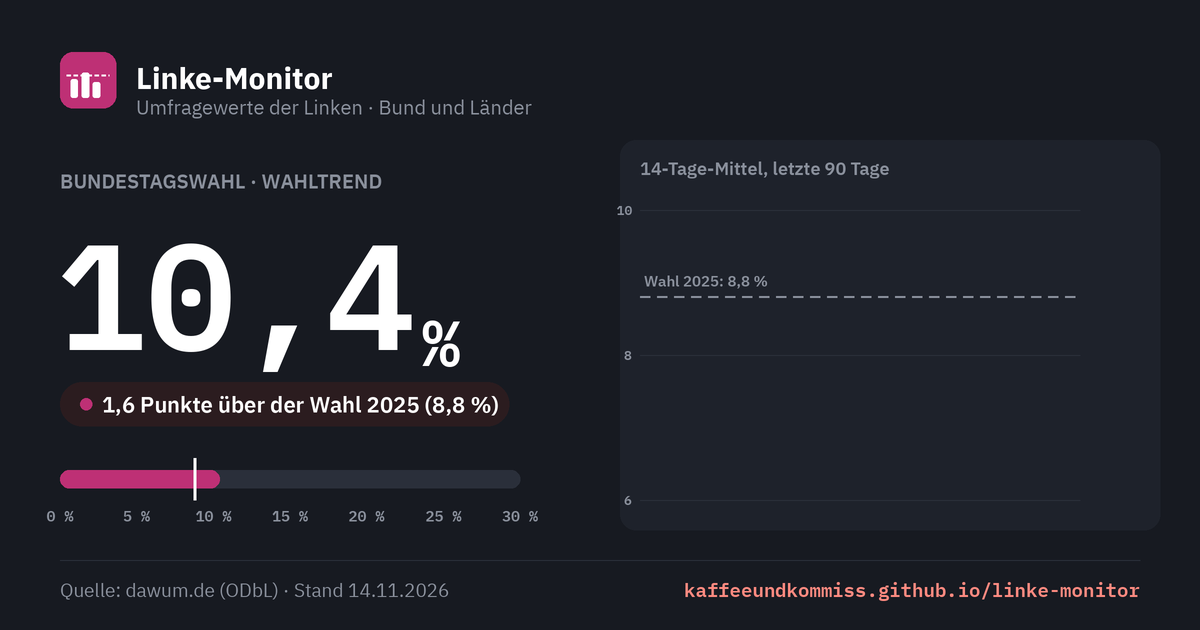
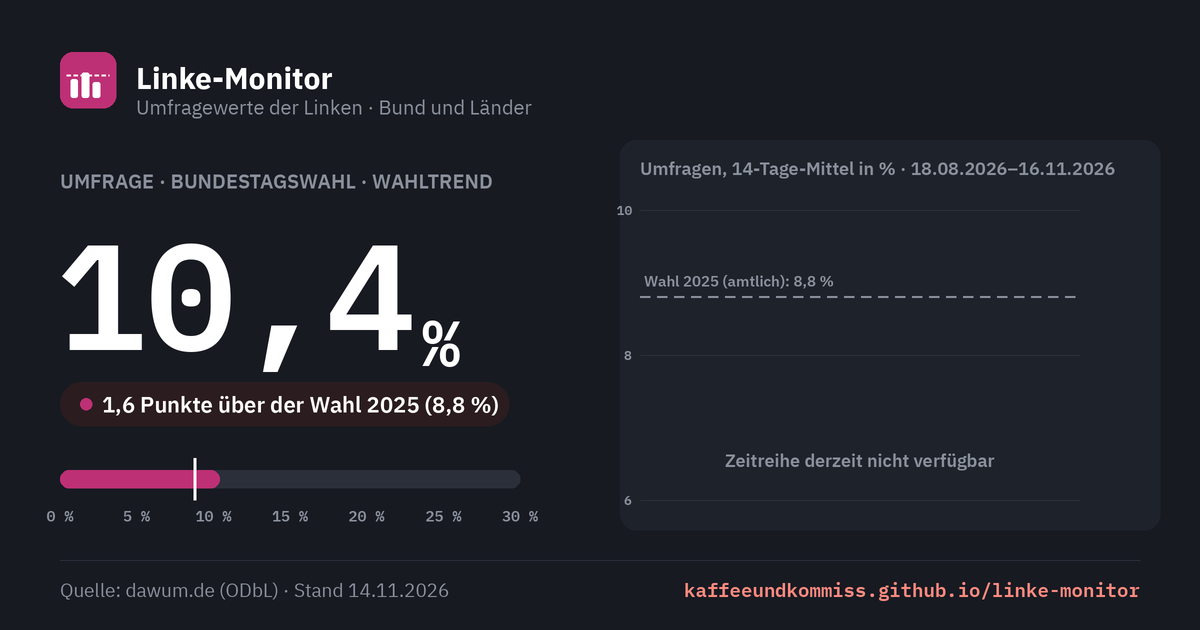
Diagramme eindeutig beschriften: Umfrage, amtliches Ergebnis, Chronik
Kennzeichen je Diagramm, Einheit, Zeitraum und Stand; Vorschaubilder
(og/make-og.py) mit derselben Kennzeichnung, damit das wöchentliche
Update die Beschriftung nicht überschreibt.

Claude-Session: https://claude.ai/code/session_01AuP7hKA5r64Vaqp6wB3yAR

diff --git a/index.html b/index.html
@@ -133,6 +133,9 @@
   .liste .lkopf{display:flex;justify-content:space-between;align-items:baseline;padding-bottom:8px;border-bottom:1px solid var(--line)}
   .liste .lkopf h3{margin:0;font-size:15px;font-weight:600}
   .liste .lkopf .skl{font-size:13px;color:var(--mute)}
+  .liste .llegende{margin:8px 0 0;font-size:13px;color:var(--mute)}
+  .abschnitt-legende{margin:6px 0 0;font-size:13px;color:var(--mute);max-width:46em}
+  .kachel .wart{font-size:12px;font-weight:600;color:var(--mute);margin-top:6px}
   .inst-zeile{display:grid;grid-template-columns:150px 1fr 60px;align-items:center;gap:14px;padding:7px 0;border-bottom:1px solid var(--hair)}
   .inst-zeile .nam{font-weight:500;font-size:14px;white-space:nowrap;overflow:hidden;text-overflow:ellipsis}
   .inst-zeile .dat{font-family:var(--mono);font-size:13px;color:var(--mute)}
@@ -240,7 +243,7 @@
   }
 .einstieg{margin:0 0 -20px;max-width:40em;color:var(--mute);font-size:16px;line-height:1.5}
 </style>
-<link rel="stylesheet" href="bereich.css?v=2">
+<link rel="stylesheet" href="bereich.css?v=3">
 </head>
 <body>
 <div class="kk-leiste"><div class="kk-in">
@@ -280,23 +283,28 @@
   <section id="bund-hero" aria-labelledby="bund-titel" data-teilen="Bundestagswahl"></section>
 
   <section id="bund-verlauf" class="karte verlauf" aria-labelledby="verlauf-titel" data-teilen="Zeitverlauf Bund" hidden>
+    <span class="art umfrage">Umfragen</span>
     <h2 id="verlauf-titel">Die Linke im Zeitverlauf · Bund</h2>
     <p class="sub" id="verlauf-sub">Punkte: Einzelumfragen · Linie: 14-Tage-Mittel</p>
     <div id="verlauf-chart" class="fv-chart"></div>
-    <p class="fv-quelle">Quelle: <a href="https://dawum.de/Bundestag/" rel="noopener">dawum.de</a> · 14-Tage-Mittel ungewichtet</p>
+    <p class="fv-quelle" id="verlauf-quelle">Quelle: <a href="https://dawum.de/Bundestag/" rel="noopener">dawum.de</a> (ODbL) · 14-Tage-Mittel ungewichtet</p>
   </section>
 
   <section id="anstehend" aria-labelledby="anstehend-titel" data-teilen="Anstehende Wahlen">
+    <span class="art umfrage">Umfragen</span>
     <div class="kopfzeile">
       <h2 id="anstehend-titel">Anstehende Wahlen</h2>
       <span class="hint">nächster Termin zuerst</span>
     </div>
+    <p class="abschnitt-legende">Große Zahl: Umfragewert in % (Wahltrend, sonst Ø der neuesten Umfrage je Institut), kein Ergebnis. Balken 0–30 %, gestrichelt: amtliches Ergebnis der letzten Wahl im Land.</p>
     <div class="kacheln" id="anstehend-grid" style="margin-top:16px"></div>
-    <p class="quelle">Quelle: <a href="https://dawum.de" rel="noopener">dawum.de</a> (ODbL) · ohne Wahltrend: Ø der neuesten Umfrage je Institut · Vergleich: amtliches Ergebnis der letzten Wahl im Land</p>
+    <p class="quelle">Quelle: <a href="https://dawum.de" rel="noopener">dawum.de</a> (ODbL) · ohne Wahltrend: Ø der neuesten Umfrage je Institut · Vergleich: amtliches Ergebnis der letzten Wahl im Land<span id="anstehend-stand"></span></p>
   </section>
 
   <section id="gelaufen" aria-labelledby="gelaufen-titel" data-teilen="Gelaufene Wahlen" data-quelle="amtliche Endergebnisse der Landeswahlleitungen" hidden>
+    <span class="art amtlich">Amtliche Ergebnisse</span>
     <div class="kopfzeile"><h2 id="gelaufen-titel">Gelaufene Wahlen</h2></div>
+    <p class="abschnitt-legende">Amtliche Endergebnisse in %, Quelle je Zeile. Zur Vorwahl: Veränderung in Prozentpunkten. Balken 0–30 %, gestrichelt: Ergebnis der Wahl davor.</p>
     <div class="karte tabelle" id="gelaufen-tabelle" style="margin-top:16px"></div>
   </section>
 </main>
@@ -480,6 +488,10 @@
     return '';
   }
 
+  // Kennzeichen über jedem Diagramm: Umfrage oder amtliches Ergebnis (Gestaltung in bereich.css).
+  const artMarke = (art) => art === 'amtlich'
+    ? '<span class="art amtlich">Amtliches Ergebnis</span>' : '<span class="art umfrage">Umfragen</span>';
+
   const gruppen = gruppiereEbenen(data.ebenen || [], NOW);
 
   // ---------- Bund-Hero ----------
@@ -506,6 +518,7 @@
 
     heroEl.innerHTML = `<div class="karte hero">
       <div class="zahlen">
+        ${artMarke(lz.art === 'ergebnis' ? 'amtlich' : 'umfrage')}
         <h2 class="ueberschrift" id="bund-titel">${esc(bund.name)} · ${
           lz.art === 'trend' ? 'Wahltrend' : lz.art === 'ergebnis' ? 'Amtliches Ergebnis' : 'Ø der Umfragen'}</h2>
         <div class="leitzahl">
@@ -521,7 +534,7 @@
             ${balken(lz.wert, ref, (ref ? '<div class="marklbl">Wahl ' + esc(ref.jahr) + ': ' + pz(ref.wert) + '</div>' : '') + punkte)}
           </div>
           <div class="achse"><span>0 %</span><span>5 %</span><span>10 %</span><span>15 %</span><span>20 %</span><span>25 %</span><span>30 %</span></div>
-          <div class="legende">Balken: ${lz.art === 'trend' ? 'Wahltrend' : 'Leitzahl'} · Punkte: Einzelumfragen${ref ? ' · gestrichelt: Ergebnis der Wahl ' + esc(ref.jahr) : ''}</div>
+          <div class="legende">Angaben in %. Balken: ${lz.art === 'trend' ? 'Wahltrend (Umfragen)' : lz.art === 'ergebnis' ? 'amtliches Ergebnis' : 'Ø der Umfragen'} · Punkte: Einzelumfragen${ref ? ' · gestrichelt: amtliches Ergebnis der Wahl ' + esc(ref.jahr) : ''}</div>
         </div>
         <dl class="kennzahlen">
           <div><dt>Ø neueste Umfrage je Institut</dt><dd>${lz.avg == null ? '–' : pz(lz.avg)}</dd></div>
@@ -539,6 +552,7 @@
           <div class="lkopf">
             <h3>Neueste Umfrage je Institut</h3><span class="skl">Skala 0–30 %</span>
           </div>
+          <p class="llegende">Balken: Umfragewert in %${ref ? ' · gestrichelt: amtliches Ergebnis der Wahl ' + esc(ref.jahr) : ''}</p>
           ${rows.length ? rows.slice().sort((a, b) => (b.datum || '').localeCompare(a.datum || '')).map((r) =>
             `<div class="inst-zeile">
                <div><div class="nam">${esc(r.institut)}</div><div class="dat">${dfmt(r.datum)}</div></div>
@@ -584,8 +598,17 @@
     }
     const linie = gleitendesMittel(punkte, FENSTER);
     const sub = document.getElementById('verlauf-sub');
-    if(sub) sub.textContent = `Letzte ${TAGE} Tage · Punkte: Einzelumfragen · `
-      + `Linie: ${FENSTER}-Tage-Mittel`;
+    // Zeitraum und Stand als Datum, nicht nur "letzte 90 Tage": ein Screenshot muss
+    // auch Wochen später noch sagen, welches Fenster er zeigt.
+    const refV = vw(bund);
+    const bisT = NOW || new Date();
+    const vonT = new Date(Date.UTC(bisT.getUTCFullYear(), bisT.getUTCMonth(), bisT.getUTCDate()) - TAGE * 864e5);
+    const isoT = (t) => new Date(t).toISOString().slice(0, 10);
+    if(sub) sub.textContent = `Umfragewerte Bundestagswahl in %, ${dfmt(isoT(vonT))}–${dfmt(isoT(bisT))} `
+      + `(letzte ${TAGE} Tage) · Punkte: Einzelumfragen · Linie: ${FENSTER}-Tage-Mittel`
+      + (refV ? ` · gestrichelt: amtliches Ergebnis ${refV.jahr}` : '');
+    const vq = document.getElementById('verlauf-quelle');
+    if(vq) vq.append(` · letzte Umfrage vom ${dfmt(isoT(punkte[punkte.length - 1].t))}`);
 
     const NS = 'http://www.w3.org/2000/svg';
     const el = (n, a, eltern) => { const e = document.createElementNS(NS, n);
@@ -664,7 +687,7 @@
       // Beschriftung der letzten Wahl erst nach den Punkten zeichnen: so liegt ihr Hof
       // über den Umfragepunkten und die Angabe bleibt auch am Handy lesbar.
       if(ref) el('text', {x: ml + 4, y: Y(ref.wert) - 6, 'font-size': 12, 'font-weight': 600,
-        class: 'fv-frei', fill: 'var(--fv-vorwahl)'}, svg).textContent = 'Wahl ' + ref.jahr + ': ' + fmt(ref.wert) + ' %';
+        class: 'fv-frei', fill: 'var(--fv-vorwahl)'}, svg).textContent = 'Wahl ' + ref.jahr + ' (amtlich): ' + fmt(ref.wert) + ' %';
 
       const letzte = linie[linie.length - 1];
       el('text', {x: Math.min(X(letzte.t) + 6, W - 4), y: Y(letzte.v), dy: '0.32em',
@@ -758,6 +781,7 @@
         </div>
         ${tage != null ? `<span class="tage">in ${tage} T.</span>` : ''}
       </div>
+      <div class="wart">${lz.art === 'ergebnis' ? 'Amtliches Ergebnis' : lz.art === 'trend' ? 'Umfrage · Wahltrend' : 'Umfrage · Ø'}</div>
       <div class="wert">
         <span class="num">${lz.wert == null ? '–' : pz(lz.wert)}</span>
         <span class="pill ${h.status}">${esc(datenhinweis ? 'nicht ausgewiesen' : h.kurz)}</span>
@@ -780,8 +804,8 @@
     document.getElementById('gelaufen-tabelle').innerHTML = `<table>
       <thead><tr>
         <th>Wahl</th><th>Datum</th>
-        <th style="text-align:right">Ergebnis</th>
-        ${mitTrend ? '<th style="text-align:right">Letzter Trend</th>' : ''}
+        <th style="text-align:right">Ergebnis (amtl.)</th>
+        ${mitTrend ? '<th style="text-align:right">Letzter Wahltrend (Umfrage)</th>' : ''}
         <th class="vgl" style="text-align:right">Zur Vorwahl</th>
         <th class="abstand">Ergebnis und Vorwahl</th>
       </tr></thead>
@@ -798,7 +822,7 @@
         return `<tr id="zeile-${esc(e.id)}">
           <td class="wahl">${esc(teileName(e.name).land)}${beleg}</td>
           <td class="mono">${dfmt(e.wahltermin)}</td>
-          <td class="erg">${lz.wert != null ? pz(lz.wert) + (erg.vorlaeufig ? ' *' : '') : '–'}${vgl
+          <td class="erg">${lz.wert != null ? pz(lz.wert) + (lz.art !== 'ergebnis' ? ' (Umfrage)' : erg.vorlaeufig ? ' *' : '') : '–'}${vgl
             ? '<span class="vgl-kurz">' + vgl + ' zu ' + esc(vw(e).jahr) + '</span>' : ''}</td>
           ${mitTrend ? `<td class="trend">${t.wert != null ? pz(t.wert) : '–'}</td>` : ''}
           <td class="vgl" title="${vgl ? 'Wahl ' + esc(vw(e).jahr) + ': ' + pz(vw(e).wert) : ''}">${vgl || '–'}</td>
@@ -808,6 +832,13 @@
       ${gelaufen.some((e) => (e.wahlergebnis || {}).vorlaeufig)
         ? '<p class="basis" style="padding:0 20px 14px">* vorläufiges amtliches Ergebnis</p>' : ''}`;
   }
+
+  const standSeite = SNAP ? 'Momentaufnahme ' + kwText(SNAP) : data.erstellt ? 'Stand ' + dfmt(data.erstellt) : '';
+  const ast = document.getElementById('anstehend-stand');
+  // Die Kacheln zeigen live abgerufene Umfragen, wenn dawum erreichbar war – dann gilt deren Stand.
+  const liveStand = !SNAP && db && db.Database && db.Database.Last_Update;
+  if(ast) ast.textContent = liveStand ? ' · Umfragen live, Datenbank-Stand ' + dfmt(liveStand)
+    : standSeite ? ' · ' + standSeite : '';
 
   // Link- und Bild-Knöpfe erst jetzt: die Abschnitte sind gerendert, und ein #Anker
   // aus einem geteilten Link kann angesprungen werden.

diff --git a/partei-seite.js b/partei-seite.js
@@ -15,6 +15,8 @@
       .map((b) => `<a href="${esc(b.url)}" rel="noopener">${esc(b.name)}</a>`);
     const hinweis = (d.belege_hinweis || {})[k];
     const teile = [links.length ? 'Quelle: ' + links.join(' · ') : '', hinweis ? esc(hinweis) : ''].filter(Boolean);
+    if(teile.length && d.stand && ['wahlen', 'zeitleiste', 'vorsitz'].includes(k))
+      teile.push('· Stand ' + dfmt(d.stand) + ' (zuletzt geprüft)');
     if(teile.length) p.innerHTML = teile.join(' '); else p.remove();
   });
 
@@ -66,11 +68,15 @@
   if(k && $('kennzahlen')){
     const regierung = d.wahlen.filter((w) => w.rolle === 'Regierung').length;
     document.getElementById('kennzahlen').innerHTML = [
-      ['Bestes Ergebnis', fmt(k.best.ergebnis) + ' %', 'Bundestagswahl ' + k.best.jahr, ''],
-      ['Letztes Ergebnis', fmt(k.letzte.ergebnis) + ' %', 'Bundestagswahl ' + k.letzte.jahr + ' · ' + k.letzte.rolle, ''],
+      ['Bestes Ergebnis', fmt(k.best.ergebnis) + ' %', 'Bundestagswahl ' + k.best.jahr + ' · amtlich', ''],
+      ['Letztes Ergebnis', fmt(k.letzte.ergebnis) + ' %', 'Bundestagswahl ' + k.letzte.jahr + ' · amtlich · danach ' + k.letzte.rolle, ''],
       ['In Regierung danach', regierung + ' von ' + k.anzahl, 'Wahlperioden nach den Wahlen ' + d.wahlen[0].jahr + '–' + k.letzte.jahr, ''],
     ].map(([l, n, s, c]) => `<div class="karte"><div class="lbl">${esc(l)}</div><div class="num ${c}">${esc(n)}</div><div class="sub">${esc(s)}</div></div>`).join('');
   }
+
+  // ---------- Zeitraum je Diagramm (Titel/Untertitel) ----------
+  if((d.wahlen || []).length && $('wahlen-titel'))
+    $('wahlen-titel').textContent = 'Bundestagswahlen ' + d.wahlen[0].jahr + '–' + d.wahlen[d.wahlen.length - 1].jahr;
 
   // ---------- Bundesvorsitzende: Kennzahlen und Tabelle ----------
   // Laufende Amtszeit zählt bis heute, deshalb einmal beim Laden berechnet.
@@ -104,6 +110,7 @@
     const mt = 4, mb = 24, zh = 24, H = mt + zeiten.length * zh + mb;
     svg.setAttribute('viewBox', `0 0 ${W} ${H}`);
     const von = Date.UTC(Math.min(...zeiten.map((z) => new Date(z.a).getUTCFullYear())), 0, 1), bis = Math.max(...zeiten.map((z) => z.b));
+    if($('vorsitz-zeitraum')) $('vorsitz-zeitraum').textContent = 'Zeitraum ' + new Date(von).getUTCFullYear() + ' bis heute, x-Achse in Jahren. ';
     const X = (t) => ml + (t - von) / (bis - von) * (W - ml - mr);
     const tip = tooltip(host);
     const schritt = schmal ? 20 : 10;
@@ -127,7 +134,7 @@
   function wahlen(){
     const host = document.getElementById('chart-wahlen'); host.replaceChildren();
     const rows = d.wahlen, W = Math.max(280, host.clientWidth), H = 250, schmal = W < 420;
-    const ml = 30, mr = 6, mt = 22, mb = 26;
+    const ml = schmal ? 30 : 42, mr = 6, mt = 22, mb = 26;
     const yMax = Math.max(16, Math.ceil(Math.max(...rows.map((r) => r.ergebnis)) / 10) * 10);
     const band = (W - ml - mr) / rows.length, bw = Math.min(32, band * 0.62);
     const X = (i) => ml + i * band + band / 2, Y = (v) => H - mb - v / yMax * (H - mt - mb);
@@ -136,7 +143,7 @@
     const tip = tooltip(host);
     for(let v = 0; v <= yMax; v += 10){
       el('line', {x1: ml, x2: W - mr, y1: Y(v), y2: Y(v), stroke: 'var(--line)'}, svg);
-      txt(svg, {x: ml - 6, y: Y(v), dy: '0.32em', 'text-anchor': 'end'}, v);
+      txt(svg, {x: ml - 6, y: Y(v), dy: '0.32em', 'text-anchor': 'end'}, schmal ? v : v + ' %');
     }
     rows.forEach((r, i) => {
       const b = el('rect', {x: X(i) - bw / 2, y: Y(r.ergebnis), width: bw, height: Y(0) - Y(r.ergebnis),
@@ -158,6 +165,7 @@
     const host = document.getElementById('chart-zeit'); host.replaceChildren();
     const jetzt = new Date();
     const von = Date.UTC(1998, 0, 1), bis = Date.UTC(jetzt.getUTCFullYear(), jetzt.getUTCMonth(), jetzt.getUTCDate());
+    if($('zeit-zeitraum')) $('zeit-zeitraum').textContent = 'Zeitraum ' + new Date(von).getUTCFullYear() + ' bis heute. ';
     const balken = PU.zeitBalken(d.zeitleiste, von, bis);
     const W = Math.max(280, host.clientWidth), ml = 4, mr = 4, mt = 4, mb = 24, lh = 26, kopf = 16;
     const H = mt + SPUREN.length * (lh + kopf + 4) + mb;

diff --git a/partei.html b/partei.html
@@ -33,7 +33,7 @@
 <link href="https://fonts.googleapis.com/css2?family=Barlow+Condensed:wght@500;600;700&family=IBM+Plex+Sans:wght@400;500;600;700&family=IBM+Plex+Mono:wght@400;500;600&display=swap" rel="stylesheet">
 <link rel="stylesheet" href="basis.css">
 <link rel="stylesheet" href="partei.css?v=2">
-<link rel="stylesheet" href="bereich.css?v=2">
+<link rel="stylesheet" href="bereich.css?v=3">
 </head>
 <body>
 <div class="kk-leiste"><div class="kk-in">
@@ -73,8 +73,9 @@
   <section class="kennzahlen" id="kennzahlen" aria-label="Kennzahlen"></section>
 
   <section class="karte diagramm" id="bundestagswahlen" aria-labelledby="wahlen-titel" data-teilen="Bundestagswahlen" data-quelle="Bundeswahlleiterin">
+    <span class="art amtlich">Amtliche Ergebnisse</span>
     <h2 id="wahlen-titel">Bundestagswahlen</h2>
-    <p class="sub">Zweitstimmen in Prozent. Farbe: Rolle in der folgenden Wahlperiode.</p>
+    <p class="sub">Amtliche Endergebnisse, keine Umfragen: Zweitstimmenanteil in %. Farbe: Rolle in der folgenden Wahlperiode.</p>
     <div class="chart" id="chart-wahlen"></div>
     <div class="legende" id="legende-wahlen"></div>
     <p class="quelle" data-beleg="wahlen"></p>
@@ -82,8 +83,9 @@
 
 
   <section class="karte diagramm" id="zeitleiste" aria-labelledby="zeit-titel" data-teilen="Vorsitz, Programme, Rolle im Bund" data-quelle="bpb, Bundestag, ZDF">
+    <span class="art chronik">Chronik</span>
     <h2 id="zeit-titel">Vorsitz, Programme, Rolle im Bund</h2>
-    <p class="sub">Senkrechte Linien: Bundestagswahlen.</p>
+    <p class="sub"><span id="zeit-zeitraum"></span>Senkrechte Linien: Bundestagswahlen.</p>
     <div class="chart" id="chart-zeit"></div>
     <div class="legende" id="legende-zeit"></div>
     <dl class="zeit-schluessel" id="schluessel-zeit" hidden></dl>
@@ -97,8 +99,9 @@
     </div>
     <div class="kennzahlen" id="vorsitz-kennzahlen"></div>
     <div class="karte diagramm" id="vorsitzende" data-teilen="Parteivorsitz" data-quelle="ZDF, Wikipedia">
+      <span class="art chronik">Chronik</span>
       <h2 id="vorsitz-chart-titel">Amtszeiten im Zeitstrahl</h2>
-      <p class="sub">Amtsdauer in Jahren je Amtszeit einer Doppelspitze. Dunkel: amtierend, bis heute gerechnet; grau: abgeschlossen. Die PDS-Vorsitzenden vor 2007 stehen in der Zeitleiste oben.</p>
+      <p class="sub"><span id="vorsitz-zeitraum"></span>Amtsdauer in Jahren je Amtszeit einer Doppelspitze. Dunkel: amtierend, bis heute gerechnet; grau: abgeschlossen. Die PDS-Vorsitzenden vor 2007 stehen in der Zeitleiste oben.</p>
       <div class="chart" id="chart-vorsitz"></div>
       <details class="vtab">
         <summary>Alle Amtszeiten als Tabelle</summary>

diff --git a/tests/e2e/polls.spec.js b/tests/e2e/polls.spec.js
@@ -455,7 +455,7 @@ test.describe("Zeitverlauf Bund", () => {
 
   test("markiert die letzte Bundestagswahl gestrichelt und beschriftet sie", async ({ page }) => {
     await mitVerlauf(page);
-    await expect(page.locator("#verlauf-chart text", { hasText: "Wahl 2025: 4,3 %" })).toHaveCount(1);
+    await expect(page.locator("#verlauf-chart text", { hasText: "Wahl 2025 (amtlich): 4,3 %" })).toHaveCount(1);
     await expect(page.locator('#verlauf-chart line[stroke-dasharray]')).toHaveCount(1);
   });
 
@@ -523,7 +523,7 @@ test.describe("Zeitverlauf Bund", () => {
 
   test("nennt den Zeitraum in der Unterzeile", async ({ page }) => {
     await mitVerlauf(page);
-    await expect(page.locator("#verlauf-sub")).toContainText("Letzte 90 Tage");
+    await expect(page.locator("#verlauf-sub")).toContainText("letzte 90 Tage");
   });
 
   test.describe("mobil", () => {
@@ -564,5 +564,24 @@ test.describe("Zeitverlauf Bund", () => {
       expect(tip.y).toBeGreaterThanOrEqual(chart.y - 1);
       expect(tip.y + tip.height).toBeLessThanOrEqual(chart.y + chart.height + 1);
     });
+  });
+});
+
+// Umfragewerte, Wahlergebnisse und Zeitverlauf dürfen nicht verwechselt werden:
+// jeder Abschnitt trägt ein Kennzeichen als Text, Kacheln und Tabelle zusätzlich je Wert.
+test.describe("Kennzeichnung der Diagramme", () => {
+  test("Umfragen und amtliche Ergebnisse sind je Abschnitt gekennzeichnet", async ({ page }) => {
+    await seite(page);
+    await expect(page.locator("#bund-hero .art")).toHaveText("Umfragen");
+    await expect(page.locator("#bund-verlauf .art")).toHaveText("Umfragen");
+    await expect(page.locator("#anstehend .art")).toHaveText("Umfragen");
+    await expect(page.locator("#gelaufen .art")).toHaveText("Amtliche Ergebnisse");
+    await expect(page.locator("#gelaufen-tabelle thead")).toContainText("Ergebnis (amtl.)");
+    await expect(page.locator("#anstehend .kachel .wart").first()).toContainText("Umfrage");
+  });
+
+  test("die Quelle der Kacheln nennt den Stand", async ({ page }) => {
+    await seite(page);
+    await expect(page.locator("#anstehend .quelle")).toContainText("Stand");
   });
 });

diff --git a/tests/e2e/partei.spec.js b/tests/e2e/partei.spec.js
@@ -73,3 +73,16 @@ test("Zeitleiste am Desktop: Schlüssel nur für Spuren, deren Balken zu schmal 
   const schl = page.locator("#schluessel-zeit");
   await expect(schl).not.toContainText("Rolle im Bund");  // deckt die Farblegende ab
 });
+
+test("Diagramme der Parteiseite: Kennzeichen, Einheit, Zeitraum und Stand", async ({ page }) => {
+  await page.goto("/partei.html");
+  await expect(page.locator("#chart-wahlen rect").first()).toBeVisible();
+  await expect(page.locator("#bundestagswahlen .art")).toHaveText("Amtliche Ergebnisse");
+  await expect(page.locator("#wahlen-titel")).toHaveText(/^Bundestagswahlen \d{4}–\d{4}$/);
+  await expect(page.locator("#chart-wahlen text", { hasText: /^0 %$/ })).toHaveCount(1);
+  await expect(page.locator("#bundestagswahlen .quelle")).toContainText("Stand");
+  await expect(page.locator("#zeitleiste .art")).toHaveText("Chronik");
+  await expect(page.locator("#zeit-zeitraum")).toContainText("bis heute");
+  await expect(page.locator("#vorsitzende .art")).toHaveText("Chronik");
+  await expect(page.locator("#vorsitz-zeitraum")).toContainText("bis heute");
+});

diff --git a/bereich.css b/bereich.css
@@ -50,3 +50,12 @@
 
 /* Monitorname ist auf der Umfrageseite die Hauptüberschrift (h1) */
 .marke h1.name { margin: 0 }
+
+/* Kennzeichen über Diagrammen (22.11.2026): Umfrage, amtliches Ergebnis oder Chronik.
+   Als Text, nicht nur als Farbe, damit es auch in Graustufen und auf Screenshots eindeutig ist.
+   Umfragen gestrichelt (Schätzung), amtliche Ergebnisse vollflächig (festgestellt). */
+.art { display: inline-block; margin: 0 0 8px; padding: 3px 7px; font: 600 11px/1.3 var(--mono, monospace);
+  letter-spacing: .08em; text-transform: uppercase; border: 1px solid; border-radius: 0; white-space: nowrap }
+.art.umfrage { color: var(--kk-akzent, #1E4FD8); border-style: dashed; background: #FFFFFF }
+.art.amtlich { color: #FFFFFF; background: #000000; border-color: #000000 }
+.art.chronik { color: #555555; border-color: #D6D6D6; background: #FFFFFF }

diff --git a/tests/e2e/teilen.spec.js b/tests/e2e/teilen.spec.js
@@ -65,7 +65,7 @@ test.describe("Belege und Einordnung", () => {
 
   test("ohne Trendwerte gibt es keine leere Trend-Spalte", async ({ page }) => {
     await laden(page);
-    await expect(page.locator("#gelaufen-tabelle th")).not.toContainText(["Letzter Trend"]);
+    await expect(page.locator("#gelaufen-tabelle th")).not.toContainText(["Letzter Wahltrend"]);
   });
 
   test("ein Wert aus nur einer Umfrage ist als wenig belastbar markiert, auch am Handy", async ({ page }) => {

diff --git a/og/make-og.py b/og/make-og.py
@@ -132,7 +132,7 @@ def bild_umfragen(data, pfad):
     c = Leinwand()
     c.kopf("Umfragewerte der Linken · Bund und Länder")
 
-    c.text(60, 168, ("Bundestagswahl · " + art).upper(), HALB(20), GRAU)
+    c.text(60, 168, ("Umfrage · Bundestagswahl · " + art).upper(), HALB(20), GRAU)
     num = "–" if wert is None else fmt(wert)
     c.text(56, 196, num, MONO(150), WEISS)
     nx = 56 + c.breite(num, MONO(150))
@@ -179,7 +179,8 @@ def bild_umfragen(data, pfad):
     linie, ab, bis = mittel_14(((bund.get("verlauf") or {}).get("rows") or []), stichtag=erstellt)
     gx0, gx1, gy0, gy1 = 640, 1140, 190, 500
     c.rect(gx0 - 20, gy0 - 50, gx1 + 20, gy1 + 30, "#1E222B", 16)
-    c.text(gx0, gy0 - 22, "14-Tage-Mittel, letzte 90 Tage", HALB(18), GRAU, "lm")
+    c.text(gx0, gy0 - 22, f"Umfragen, 14-Tage-Mittel in % · {dfmt(ab.isoformat())}–{dfmt(bis.isoformat())}",
+           HALB(18), GRAU, "lm")
     werte = [v for _, v in linie] + ([rw] if rw is not None else [])
     ymin = max(0, int(min(werte or [0])) - 2)
     ymax = max(ymin + 4, int(max(werte or [4])) + 2)
@@ -190,11 +191,13 @@ def bild_umfragen(data, pfad):
         c.text(gx0 - 8, Y(v), f"{v}", MONO(13), GRAU, "rm")
     if rw is not None:
         c.gestrichelt(gx0, gx1 - 60, Y(rw), GRAU, 2)
-        c.text(gx0 + 4, Y(rw) - 16, f"Wahl {ref.get('jahr', '')}: {fmt(rw)} %", HALB(15), GRAU, "lm")
+        c.text(gx0 + 4, Y(rw) - 16, f"Wahl {ref.get('jahr', '')} (amtlich): {fmt(rw)} %", HALB(15), GRAU, "lm")
     if len(linie) >= 2:
         c.line([(X(t), Y(v)) for t, v in linie], WEISS, 3.5)
         t, v = linie[-1]
         c.text(X(t) + 10, Y(v), fmt(v) + " %", MONO(20), WEISS, "lm")
+    else:
+        c.text((gx0 + gx1 - 60) / 2, gy1 - 40, "Zeitreihe derzeit nicht verfügbar", HALB(18), GRAU, "mm")
 
     c.fuss(f"Quelle: dawum.de (ODbL) · Stand {dfmt(stand) if stand else 'unbekannt'}")
     c.speichern(pfad)
@@ -205,7 +208,7 @@ def bild_partei(partei, pfad):
     c.kopf("Die Linke auf Bundesebene")
     wahlen = partei["wahlen"]
     erste, letzte = wahlen[0], wahlen[-1]
-    c.text(60, 168, f"BUNDESTAGSWAHLEN {erste['jahr']}–{letzte['jahr']} · ZWEITSTIMMEN", HALB(20), GRAU)
+    c.text(60, 168, f"BUNDESTAGSWAHLEN {erste['jahr']}–{letzte['jahr']} · AMTLICHE ERGEBNISSE IN %", HALB(20), GRAU)
     beste = max(wahlen, key=lambda w: w["ergebnis"])
     c.text(60, 214, f"Bestes Ergebnis {fmt(beste['ergebnis'])} % ({beste['jahr']})", HALB(26), WEISS)
     c.text(60, 254, f"Zuletzt {fmt(letzte['ergebnis'])} % ({letzte['jahr']})", HALB(26), "#FF8A80")

diff --git a/README.md b/README.md
@@ -11,3 +11,10 @@ pip install -r requirements-dev.txt && pytest              # update.py
 npm install && npm test                                    # monitor-utils.js, partei-utils.js (Vitest)
 npm install && npx playwright install chromium && npm run test:e2e   # index.html, partei.html (Playwright)
 ```
+
+## Diagrammbeschriftung (seit 22.11.2026)
+
+Jedes Diagramm trägt ein Kennzeichen als Text (`.art` in `bereich.css`): **Umfragen** (gestrichelter Rahmen),
+**Amtliche Ergebnisse** (schwarz) oder **Chronik**. Dazu Titel, Einheit (%), Zeitraum, Quelle und Stand.
+Die Texte stehen in `index.html`, `partei.html`, `partei-seite.js` und `og/make-og.py`; `update.py` schreibt nur Daten
+und überschreibt sie nicht. Vergleichslinien heißen „Wahl JJJJ (amtlich)“.
